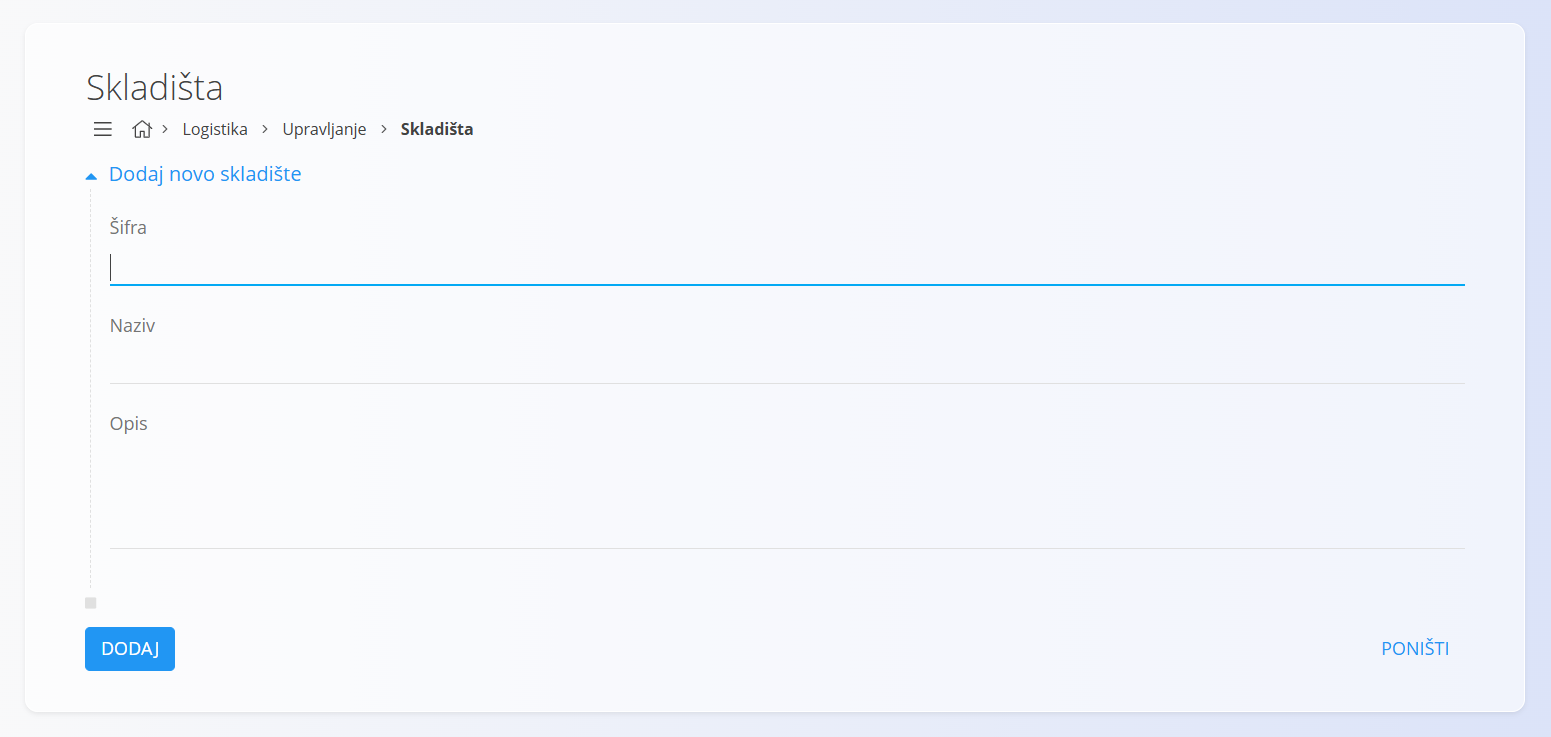
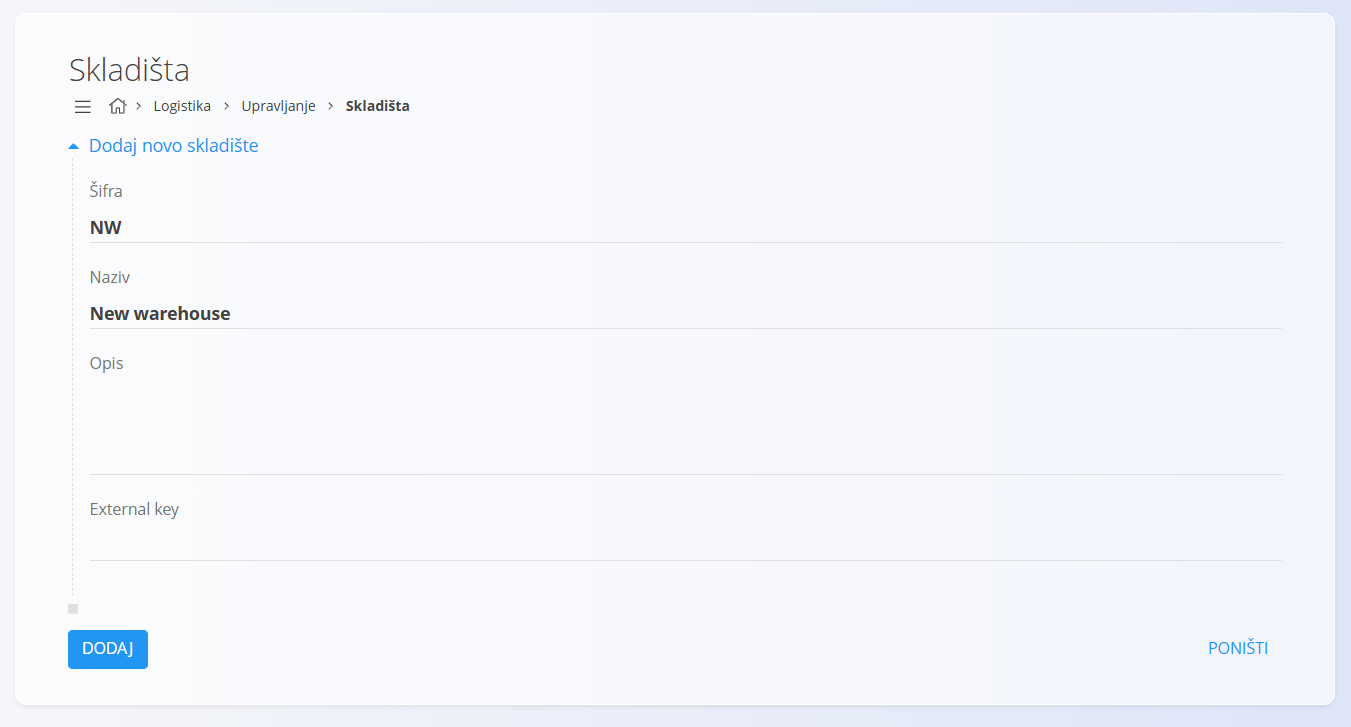
docs(en,sl,hr): add external key to warehouse form fields and screenshots

diff --git a/en/Domains/Logistics/Management/Warehouses.md b/en/Domains/Logistics/Management/Warehouses.md
@@ -40,6 +40,7 @@ The form includes the following fields:
 - **Code**
 - **Name**
 - **Description**
+- **External key**
 - **Active**
 
 After entering the required information, click **Add** to save the warehouse or **Cancel** to return to the list view.

diff --git a/sl/Domene/Logistika/Upravljanje/Skladisca.md b/sl/Domene/Logistika/Upravljanje/Skladisca.md
@@ -40,6 +40,7 @@ Obrazec vključuje naslednja polja:
 - **Šifra**
 - **Naziv**
 - **Opis**
+- **Zunanji ključ**
 - **Aktiven**
 
 Po vnosu zahtevanih podatkov kliknite **Dodaj**, da shranite skladišče, ali **Prekliči**, da se vrnete na seznam.

diff --git a/hr/Domene/Logistika/Upravljanje/Skladista.md b/hr/Domene/Logistika/Upravljanje/Skladista.md
@@ -40,6 +40,7 @@ Obrazac sadrži sljedeća polja:
 - **Šifra**
 - **Naziv**
 - **Opis**
+- **External key**
 
 Nakon unosa potrebnih podataka kliknite **Dodaj** za spremanje skladišta ili **Poništi** za povratak na popis.
 
